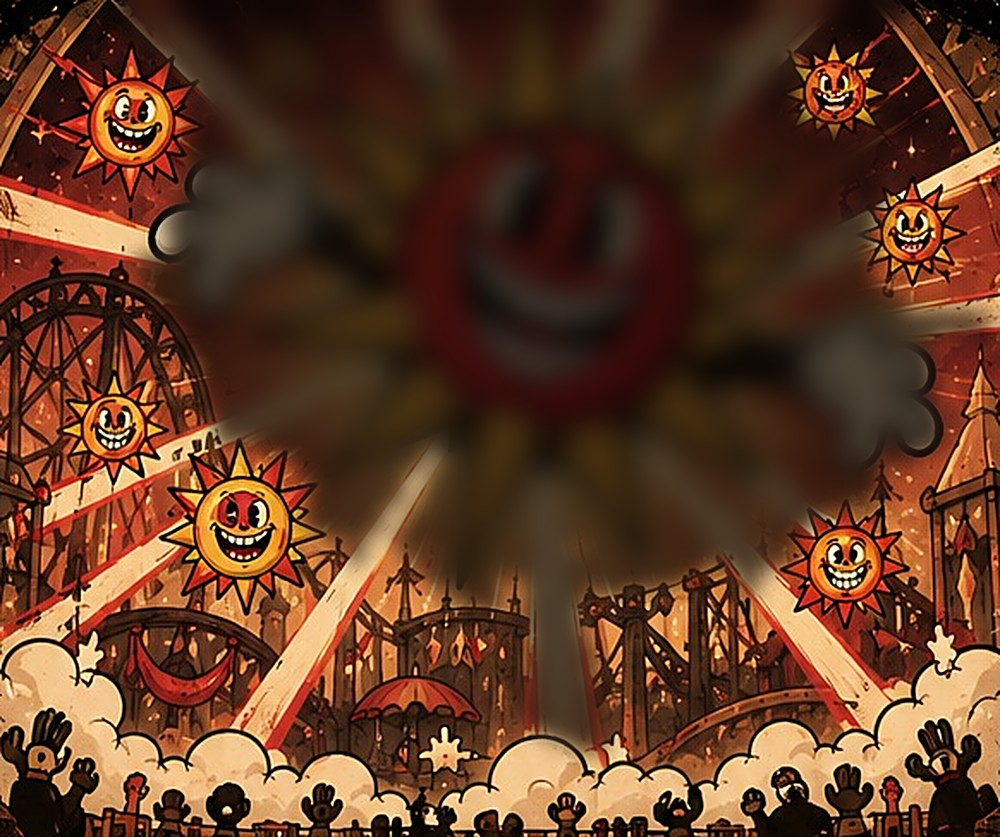
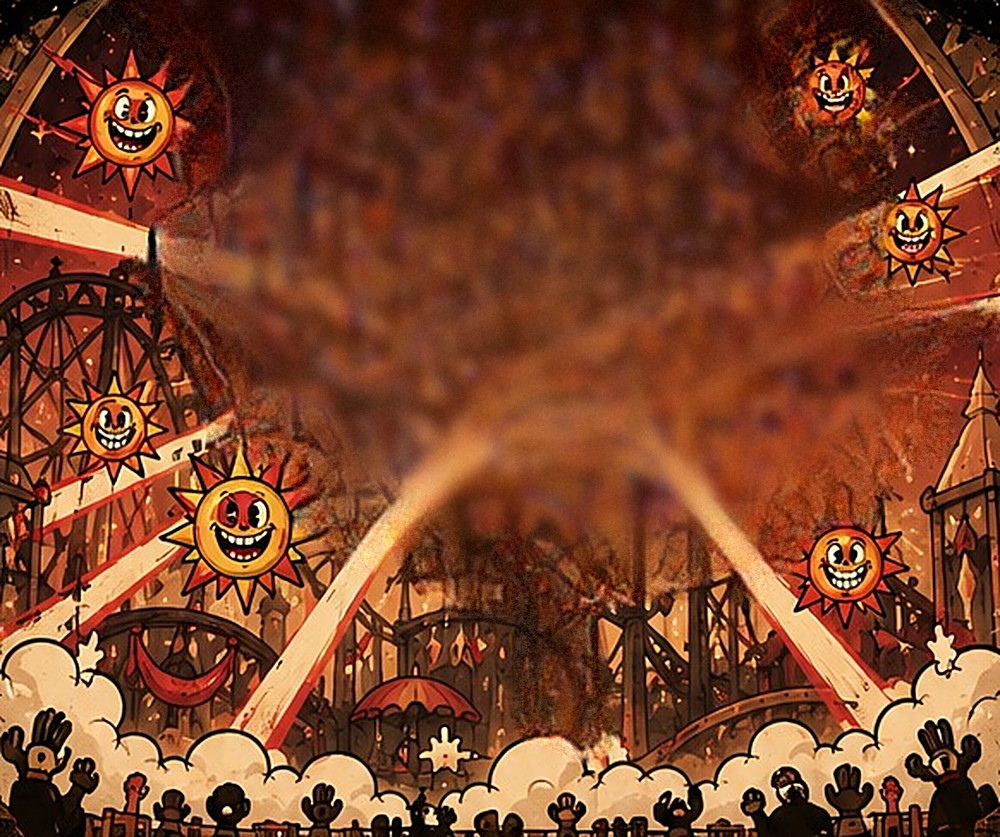
Buehne mit Tiefe: Hintergruende per LaMa gefuellt, Figur hebt sich ab
- zerlegen.py fuellt die Luecke hinter der Figur mit LaMa statt eines
  dunklen Schattenrisses: am Rand laeuft die Szenerie weiter, tief in der
  Luecke weicher Dunst. Neu: --nur-hintergrund. Alle 13 Buehnen neu.
- Kulissen-Shader: leicht unscharf, dunstig, etwas dunkler, warmes
  Gegenlicht um die Figur im Takt.
- Figur: Tintenkontur und Randlicht von hinten oben.
- Lichtstrahlen hinter der Figur, Schlagschatten auf dem Prospekt mit
  Parallaxe, ziehender Bodennebel vor den Fuessen.

Claude-Session: https://claude.ai/code/session_01AEwokr5AK2c4oJNrQrXEho

diff --git a/tools/buehne/zerlegen.py b/tools/buehne/zerlegen.py
@@ -11,7 +11,7 @@ eigenen Umgebung:
 Quelle: assets/bossblaetter/<name>.jpg (die Blaetter wie entworfen).
 Ausgabe je Boss nach godot-karten/buehnen/<boss-id>/:
 
-    hintergrund.jpg   die Buehne; wo die Figur stand, bleibt ihr weicher Schattenriss
+    hintergrund.jpg   die Buehne; hinter der Figur malt LaMa die Szenerie weiter
     figur.png         die freigestellte Figur (RGBA, auf ihr Rechteck zugeschnitten)
     figur.json        wo die Figur im Buehnenbild sitzt (x, y, b, h) und ihr Fusspunkt
     platz_0..2.png    die drei Platzbilder (Vergangenheit, Gegenwart, Zukunft)
@@ -178,14 +178,99 @@ def maske_aufraeumen(alpha):
     return np.clip(weich * 255, 0, 255).astype(np.uint8), m
 
 
-def buehne_zerlegen(boss_id, cfg, sitzung):
-    from rembg import remove
+LAMA = os.environ.get("LAMA_MODELL", os.path.join(ROOT, ".venv", "big-lama.pt"))
 
+
+def figur_maske(boss_id, groesse):
+    """Maske der Figur im Buehnenbild, aus figur.png und figur.json."""
+    ziel = os.path.join(BUEHNEN, boss_id)
+    with open(os.path.join(ziel, "figur.json")) as f:
+        info = json.load(f)
+    x, y, b, h = info["figur"]
+    a = np.array(Image.open(os.path.join(ziel, "figur.png")))[..., 3]
+    m = np.zeros((groesse[1], groesse[0]), np.uint8)
+    m[y:y + h, x:x + b] = (a > 40).astype(np.uint8)
+    return m
+
+
+FUELL_BREITE = 384
+
+
+def _lama(bild, maske, _modell={}):
+    import torch
+
+    if "m" not in _modell:
+        _modell["m"] = torch.jit.load(LAMA, map_location="cpu").eval()
+    h, w = maske.shape
+    ph, pw = (8 - h % 8) % 8, (8 - w % 8) % 8
+    bild = np.pad(bild, ((0, ph), (0, pw), (0, 0)), mode="reflect")
+    maske = np.pad(maske, ((0, ph), (0, pw)))
+    with torch.no_grad():
+        t_bild = torch.from_numpy(bild).permute(2, 0, 1)[None].float() / 255
+        t_maske = torch.from_numpy(maske)[None, None].float()
+        aus = _modell["m"](t_bild, t_maske)[0].permute(1, 2, 0).numpy()[:h, :w]
+    return np.clip(aus * 255 if aus.max() <= 1.5 else aus, 0, 255).astype(np.float32)
+
+
+def hintergrund_fuellen(rgb, hart):
+    """Fuellt die Stelle hinter der Figur mit gemalter Szenerie (LaMa).
+
+    Statt eines dunklen Schattenrisses setzt LaMa (Suvorov u. a. 2021) Zelte,
+    Mauern, Himmel und Rauch fort, die um die Figur herum stehen; tief in
+    der Luecke wird daraus weicher Dunst. Darueber kommt Korn wie im Rest
+    des Blatts, damit die Stelle nicht glatt wirkt. Das Modell (big-lama.pt,
+    TorchScript) liegt unter .venv/ oder wird mit LAMA_MODELL angegeben.
+    """
+    loch = cv2.dilate(hart, cv2.getStructuringElement(cv2.MORPH_ELLIPSE, (31, 31)))
+    h, w = loch.shape
+    # LaMa kennt kleine Bilder; bei voller Groesse wird ein so grosses Loch
+    # flach und grau. Also klein fuellen (FUELL_BREITE), dann hochskalieren -
+    # das Korn darueber bringt die Feinheit zurueck.
+    k = FUELL_BREITE / w
+    kw, kh = round(w * k), round(h * k)
+    klein = cv2.resize(rgb, (kw, kh), interpolation=cv2.INTER_AREA)
+    km = (cv2.resize(loch, (kw, kh), interpolation=cv2.INTER_NEAREST) > 0).astype(np.uint8)
+    gefuellt = cv2.resize(_lama(klein, km), (w, h), interpolation=cv2.INTER_CUBIC)
+    # In vollen Bildern erfindet LaMa tief in der Luecke unruhigen Brei. Am
+    # Rand bleibt das Detail (die Szenerie laeuft weiter), nach innen geht es
+    # in weichen Dunst ueber - Tiefe hinter der Figur statt Laerm.
+    tiefe = cv2.distanceTransform(loch, cv2.DIST_L2, 5)
+    t = np.clip((tiefe - 12) / 70.0, 0, 1)[..., None] ** 0.8
+    weich = cv2.bilateralFilter(gefuellt.astype(np.uint8), 0, 40, 9).astype(np.float32)
+    weich = cv2.GaussianBlur(weich, (0, 0), 7)
+    gefuellt = gefuellt * (1 - t) + weich * t
+    # Korn wie im Original (Rauschen der hohen Frequenzen ausserhalb der Figur)
+    rest = rgb.astype(np.float32) - cv2.GaussianBlur(rgb, (0, 0), 1.5).astype(np.float32)
+    staerke = rest[loch == 0].std()
+    rng = np.random.default_rng(7)
+    korn = cv2.GaussianBlur(rng.normal(0, staerke, (h, w, 1)).astype(np.float32), (0, 0), 0.6)
+    gefuellt += korn[..., None] * (1 - 0.75 * t)
+    gewicht = cv2.GaussianBlur(loch.astype(np.float32), (0, 0), 3)[..., None]
+    return np.clip(rgb * (1 - gewicht) + gefuellt * gewicht, 0, 255).astype(np.uint8)
+
+
+def buehnenbild(cfg):
     x0, y0, x1, y1 = cfg["buehne"]
     bild = blatt(cfg["blatt"]).crop((x0, y0, x1, y1))
     skala = BUEHNE_BREITE / bild.width
     gross = bild.resize((BUEHNE_BREITE, round(bild.height * skala)), Image.LANCZOS)
-    gross = gross.filter(ImageFilter.UnsharpMask(radius=2, percent=60, threshold=2))
+    return gross.filter(ImageFilter.UnsharpMask(radius=2, percent=60, threshold=2)), skala
+
+
+def nur_hintergrund(boss_id, cfg):
+    """Nur das Buehnenbild neu fuellen; Figur und Maske bleiben, wie sie sind."""
+    gross, _ = buehnenbild(cfg)
+    hart = figur_maske(boss_id, gross.size)
+    hinter = hintergrund_fuellen(np.array(gross), hart)
+    Image.fromarray(hinter).save(os.path.join(BUEHNEN, boss_id, "hintergrund.jpg"), quality=90, optimize=True)
+    print(f"{boss_id}: Hintergrund gefuellt")
+
+
+def buehne_zerlegen(boss_id, cfg, sitzung):
+    from rembg import remove
+
+    x0, y0, x1, y1 = cfg["buehne"]
+    gross, skala = buehnenbild(cfg)
 
     punkte = [{"type": "point", "data": [round((px - x0) * skala), round((py - y0) * skala)], "label": 1} for px, py in cfg["pos"]]
     punkte += [{"type": "point", "data": [round((px - x0) * skala), round((py - y0) * skala)], "label": 0} for px, py in cfg["neg"]]
@@ -199,17 +284,9 @@ def buehne_zerlegen(boss_id, cfg, sitzung):
     ziel = os.path.join(BUEHNEN, boss_id)
     os.makedirs(ziel, exist_ok=True)
 
-    # Hintergrund: Figur grosszuegig ausschneiden und auffuellen. Was dort
-    # entsteht, ist verschwommen - es wird nur sichtbar, wenn die Figur sich
-    # weit bewegt, und dann liegt ein Schatten darauf.
+    # Hintergrund: hinter der Figur wird die Szenerie weitergemalt.
     rgb = np.array(gross)
-    # Hinter der Figur bleibt ihr weicher, dunkler Schattenriss - wie ein
-    # Schatten auf dem Buehnenprospekt. Bewegt sich die Figur, sieht man
-    # einen Schatten statt eines Lochs.
-    loch = cv2.dilate(hart, np.ones((9, 9), np.uint8)).astype(np.float32)
-    gewicht = cv2.GaussianBlur(loch, (0, 0), 10)[..., None]
-    schatten = cv2.GaussianBlur(rgb, (0, 0), 14).astype(np.float32) * 0.32
-    hinter = (rgb * (1 - gewicht) + schatten * gewicht).astype(np.uint8)
+    hinter = hintergrund_fuellen(rgb, hart)
     Image.fromarray(hinter).save(os.path.join(ziel, "hintergrund.jpg"), quality=90, optimize=True)
 
     ys, xs = np.where(hart > 0)
@@ -249,9 +326,14 @@ def motive():
 
 
 def main():
+    wahl = [a for a in sys.argv[1:] if not a.startswith("-")]
+    if "--nur-hintergrund" in sys.argv:
+        for boss_id, cfg in BOSSE.items():
+            if not wahl or boss_id in wahl or cfg["blatt"] in wahl:
+                nur_hintergrund(boss_id, cfg)
+        return
     from rembg import new_session
 
-    wahl = [a for a in sys.argv[1:] if not a.startswith("-")]
     if "--nur-motive" not in sys.argv:
         sitzung = new_session("sam")
         for boss_id, cfg in BOSSE.items():

diff --git a/godot-karten/BUEHNE.md b/godot-karten/BUEHNE.md
@@ -78,9 +78,31 @@ python3 -m venv .venv && .venv/bin/pip install numpy pillow opencv-python-headle
 .venv/bin/python tools/buehne/zerlegen.py boss_<name>
 ```
 
-Segment Anything stellt die Figur frei. Hinter ihr bleibt ein weicher
-Schattenriss im Bühnenbild stehen. Bewegt sich die Figur weit, sieht man dort
-einen Schatten und kein Loch.
+Segment Anything stellt die Figur frei. Die Lücke dahinter füllt LaMa: Am
+Rand läuft die Szenerie weiter (Wolken, Zelte, Säulen), tief in der Lücke
+wird daraus weicher Dunst. Bewegt sich die Figur, steht dahinter Bühne und
+kein leerer Raum. LaMa braucht PyTorch und das Modell `big-lama.pt`:
+
+```sh
+.venv/bin/pip install torch
+curl -L -o .venv/big-lama.pt https://github.com/enesmsahin/simple-lama-inpainting/releases/download/v0.1.0/big-lama.pt
+.venv/bin/python tools/buehne/zerlegen.py --nur-hintergrund     # nur die Bühnenbilder neu füllen
+```
+
+## Tiefe: damit sich die Figur abhebt
+
+Die Bühne ist in Ebenen gebaut, von hinten nach vorn:
+
+| Ebene | Was sie tut |
+|---|---|
+| Kulisse (`shader/kulisse.gdshader`) | leicht unscharf, dunstig und etwas dunkler; um die Figur ein warmes Gegenlicht, das im Takt pulsiert |
+| Strahlen | langsam drehende Lichtstrahlen in der Farbe des Bosses |
+| Schlagschatten | die Figur als Schatten auf dem Prospekt, nach rechts hinten versetzt, mit Parallaxe |
+| Figur (`shader/figur.gdshader`) | Tintenkontur (`kontur_px`) und Randlicht von hinten oben (`randlicht`) |
+| Bodennebel | ziehender Dunst vor den Füßen |
+
+Bei getrennten Ebenen (Weg A) gilt dasselbe. Male den Hintergrund ruhig
+etwas heller und weniger dicht als die Figur; den Rest erledigt die Bühne.
 
 ### Choreografie
 
